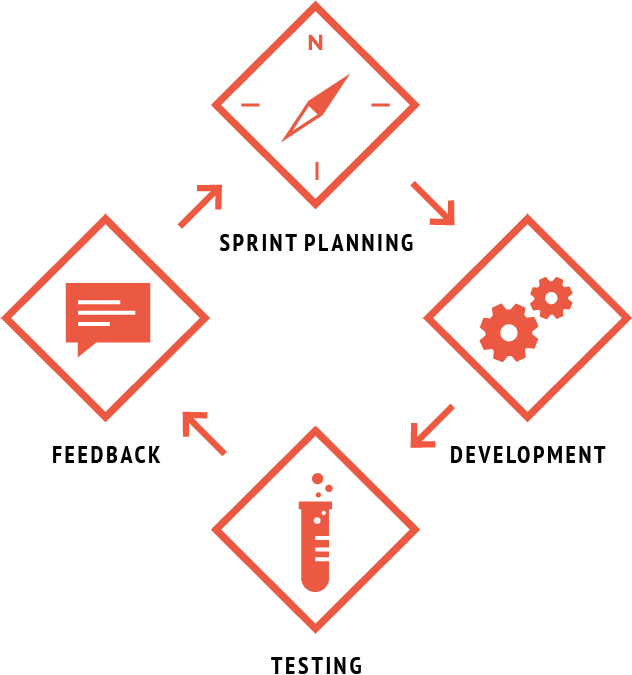
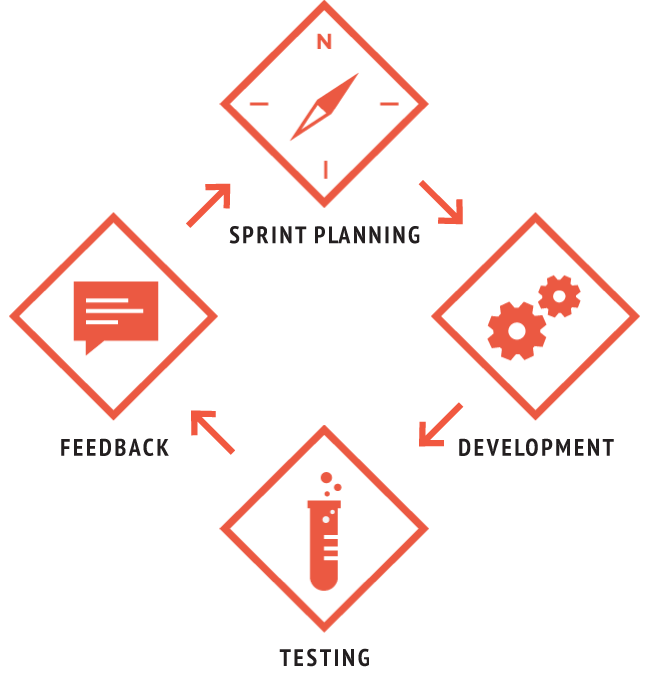
all picture

diff --git a/index.html b/index.html
@@ -24,7 +24,7 @@ pagename: index
         <div class="col-md-10 col-md-offset-1">
           <p>We are one of the fastest and most adaptable teams in the business. This is partly because of our development methodology. While other development teams set rigid plans that leave no room for change, we believe that true innovation comes only from agility.</p>
           <p>We work in weekly iterations which allow us to add and enhance features as well as respond to user testing as the product evolves. This dramatically increases our innovation power and speed to market fit.</p>
-          <img class="img-responsive" src="{{ site.baseurl }}static/img/home_methodology/all.gif"/>
+          <img class="img-responsive" src="{{ site.baseurl }}static/img/home_methodology/all.png"/>
           <div class="marg-top text-center">
             <a href="methodology.html" class="btn btn-primary">our method</a>
           </div>
@@ -164,7 +164,7 @@ pagename: index
         <div class="col-md-10 col-md-offset-1">
           <p>Cepta nisti quo tendi rerum hitas quis dolenis cilicil iberia non consequ undanisti core nos prest omnimol uptaten daeptatur aut et aces con corempore et dolumqui dis derissiminis nihicae venda volorrum fugia si rempeliquis eos volorentiam, im quas aut et. Aces mo verio que suntibus sequisquae dolore aut aut offic tet unto oditiat emporem aut autemos el intibus, sectiis sinciam es eatemolorem nonsed ea doluptur? Urion ea si quostia eperror umetur adit illit oditet que volore nimus autatemo occum voluptat ad ma volore, to moluptates sed maior as eum audia conseria.</p>
           <div class="marg-top text-center">
-            <a href="aboutus.html" class="btn btn-primary">about us</a>
+            <a href="aboutus.html" class="btn btn-primary">Meet the Team</a>
           </div>
         </div>
       </div>

diff --git a/static/bootstrap/buttons.less b/static/bootstrap/buttons.less
@@ -14,7 +14,7 @@
   font-size: @font-size-base;
   font-family: @btn-font-family;
   font-weight: @btn-font-weight;
-  letter-spacing: 1px;
+  letter-spacing: .2em;
   line-height: @line-height-base;
   text-transform: uppercase;
   text-align: center;
